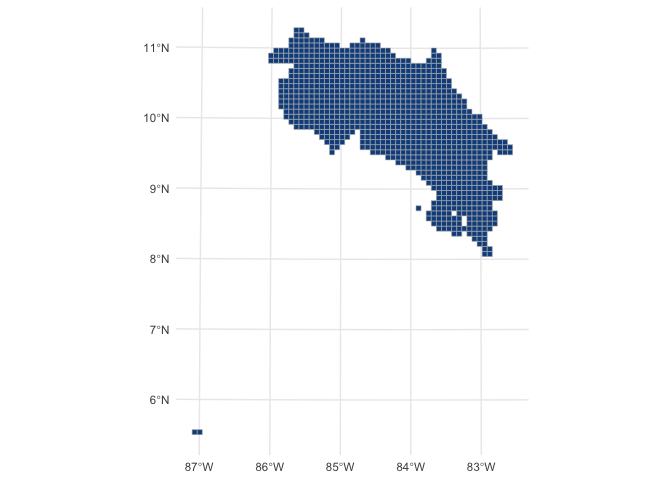
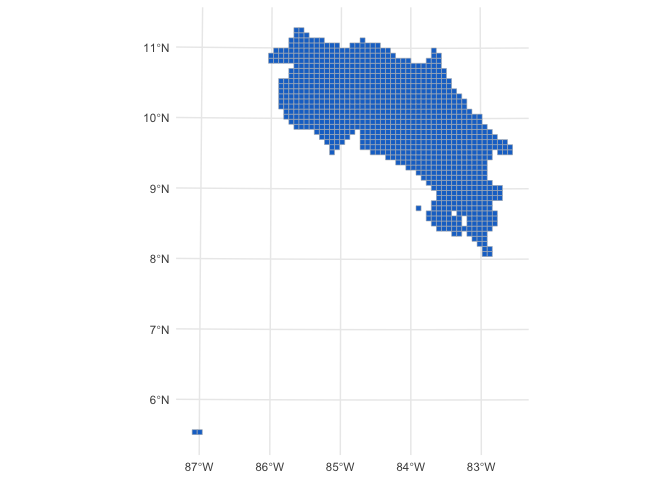
6th commit

Changed region(s): [[0.4062, 0.0625, 0.7812, 0.5312], [0.2812, 0.875, 0.3125, 0.9062]]

diff --git a/README.md b/README.md
@@ -31,7 +31,7 @@ library(crgrids)
 
 ``` r
 ggplot(cr_grid_8km) +
-  geom_sf(fill = "dodgerblue4", color = "gray") +
+  geom_sf(fill = "dodgerblue3", color = "gray") +
   theme_minimal()
 ```
 
